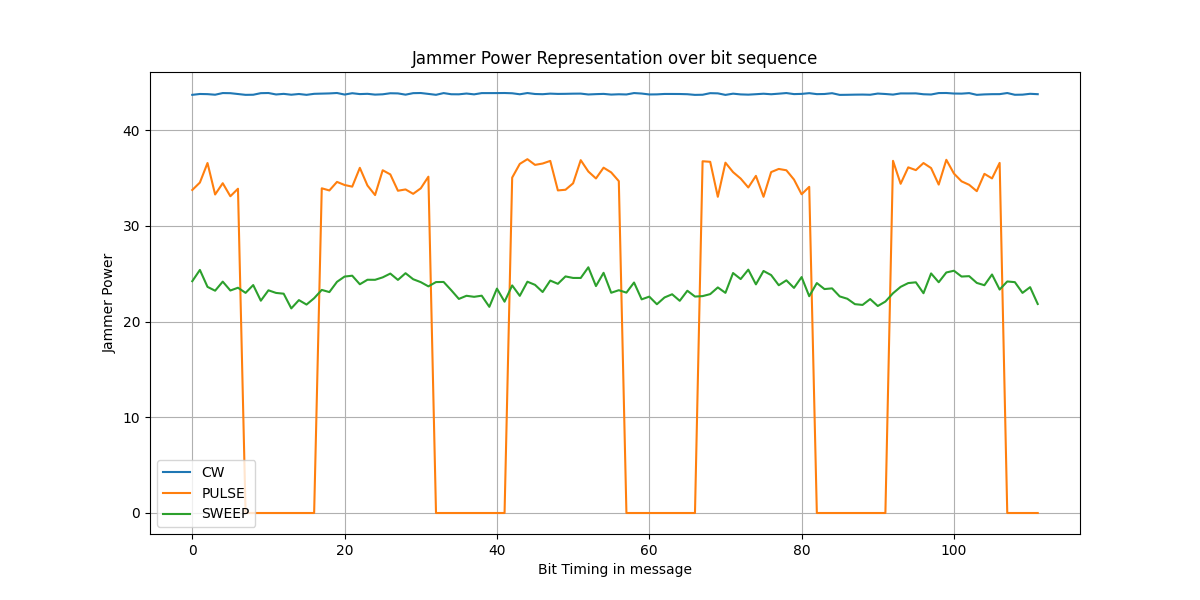
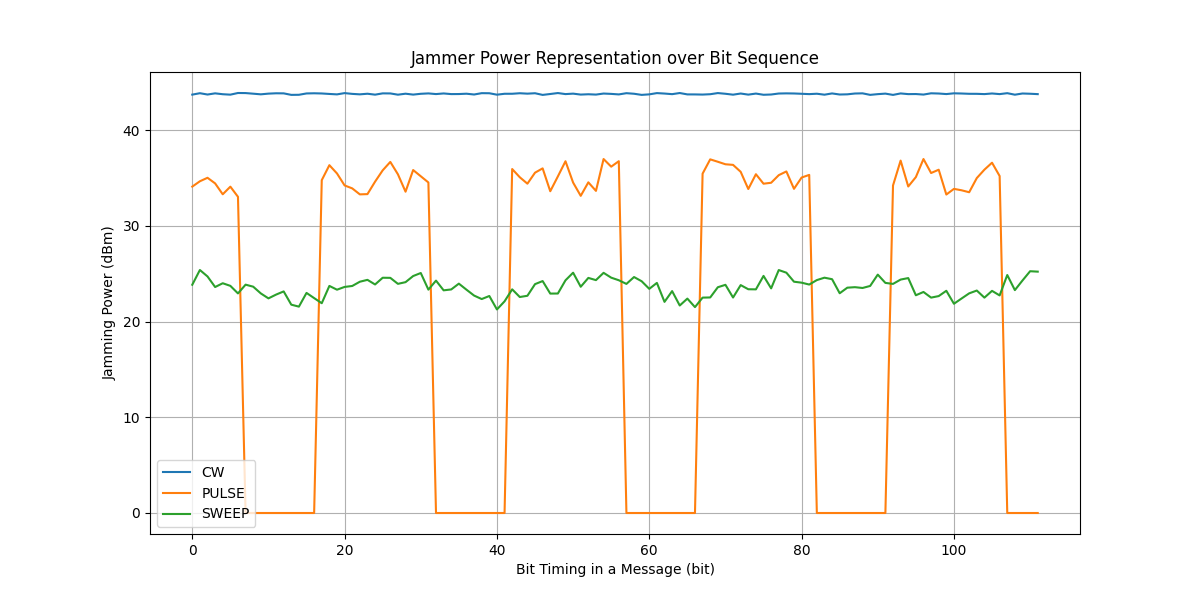
Implemented jammer frequency graph over bit-time

diff --git a/n_scen_stat.py b/n_scen_stat.py
@@ -57,18 +57,37 @@ def plot_bit_sequence_jammer_power(jammer_data):
     plt.figure(figsize=(12, 6))
 
     for jammer in jammer_data.items():
+        print(jammer)
         jammer_name = jammer[0]
         jammer_values = jammer[1]
-        times, bit_power_jammer_values = zip(*jammer_values)
+        times, bit_power_jammer_values = zip(*jammer_values['bit_power'])
         plt.plot(times, bit_power_jammer_values, label=jammer_name)
 
-    plt.xlabel('Bit Timing in message')
-    plt.ylabel('Jammer Power')
-    plt.title('Jammer Power Representation over bit sequence')
+    plt.xlabel('Bit Timing in a Message (bit)')
+    plt.ylabel('Jamming Power (dBm)')
+    plt.title('Jammer Power Representation over Bit Sequence')
     plt.legend()
     plt.grid(True)
     plt.savefig('results/jammer_power.png')
     plt.show()
+
+
+    plt.figure(figsize=(12, 6))
+    for jammer in jammer_data.items():
+        jammer_name = jammer[0]
+        jammer_values = jammer[1]
+        times, bit_power_jammer_values = zip(*jammer_values['bit_frequency'])
+        plt.plot(times, bit_power_jammer_values, label=jammer_name)
+
+    plt.xlabel('Bit Timing in a Message (us)')
+    plt.ylabel('Jamming Frequency (MHz)')
+    plt.title('Jammer Frequency Representation over Bit Time')
+    plt.legend()
+    plt.grid(True)
+    plt.savefig('results/jammer_freq.png')
+    plt.show()
+
+
 
 
 
@@ -196,7 +215,7 @@ def run_simulation(jamming=False, spoofing=False, spoof_probability=0.3):
             distance = ADSBChannel._haversine_distance(drone.current_position[0], drone.current_position[1], gcs_pos[0], gcs_pos[1])
             original_adsb_message = ADSBMessage(drone.id, drone.current_position[2], drone.current_position[0], drone.current_position[1])
 
-            received_df17_even, received_df17_odd, delay_ns, corrupted, snr_db, spoofed, jammed, _ = channel.transmit(
+            received_df17_even, received_df17_odd, delay_ns, corrupted, snr_db, spoofed, jammed, _, _ = channel.transmit(
                 distance, original_adsb_message, jammer=jammer, spoofer=spoofer
             )
 
@@ -278,6 +297,8 @@ def run_simulation_jammer():
                 route=jammer_routes[0]
         )
 
+        jammer_data[jammer.jamming_type] = {}
+
         while True:
 
             status = drone.calculate_navigation(1)
@@ -287,17 +308,17 @@ def run_simulation_jammer():
             distance = ADSBChannel._haversine_distance(drone.current_position[0], drone.current_position[1], gcs_pos[0], gcs_pos[1])
             original_adsb_message = ADSBMessage(drone.id, drone.current_position[2], drone.current_position[0], drone.current_position[1])
 
-            _, _, _, _, _, _, _, bit_power_jammer_data = channel.transmit(
+            _, _, _, _, _, _, _, bit_power_jammer_data, bit_frequency_jammer_data = channel.transmit(
                 distance, original_adsb_message, jammer=jammer, spoofer=None
             )
 
-        jammer_data[jammer.jamming_type] = bit_power_jammer_data
+        jammer_data[jammer.jamming_type]['bit_power'] = bit_power_jammer_data
+        jammer_data[jammer.jamming_type]['bit_frequency'] = bit_frequency_jammer_data
 
     return jammer_data
 
 
 # Run simulations for each scenario and collect results
-
 results = {}
 for scenario, params in scenarios.items():
     print(f"Running scenario: {scenario}")
@@ -309,14 +330,13 @@ for scenario, params in scenarios.items():
         'throughput': throughput_data
     }
 
-
-bit_power_jammer_data = run_simulation_jammer()
+jammer_data = run_simulation_jammer()
 
 # Ensure the 'results' directory exists
 if not os.path.exists('results'):
     os.makedirs('results')
 
-plot_bit_sequence_jammer_power(bit_power_jammer_data)
+plot_bit_sequence_jammer_power(jammer_data)
 
 # Plotting packet loss over time for each scenario
 plot_packet_loss_data(results)

diff --git a/jammer.py b/jammer.py
@@ -59,7 +59,7 @@ class Jammer:
         # Internal timing
         self.start_time = time.time()
 
-    def calculate_jamming_effect(self, bit_time_us, target_lat, target_lon):
+    def calculate_jamming_effect(self, bit_time_us, target_lat, target_lon, for_stat_bit_frequency_jammer):
         # Calculates jamming power at given time and target location
         # Returns jamming power in dBm
 
@@ -92,9 +92,12 @@ class Jammer:
             # We don't need bit_time_us for CW.. since it just steadily sends a signal.
 
             freq_difference = abs(self.center_freq + self.offset_freq - 1090e6)
+            for_stat_bit_frequency_jammer.append((bit_time_us, self.center_freq + self.offset_freq))
+
             if freq_difference < 0.5e6:  # Within 500kHz bandwidth
                 power_reduction = (freq_difference / 0.5e6) * 3
                 return self.jamming_power_dbm - power_reduction - + random.uniform(-0.1, 0.1)
+
 
                 
         if self.jamming_type == "PULSE":
@@ -109,7 +112,11 @@ class Jammer:
             pulse_period = 1e6 / self.pulse_repetition_freq
             time_in_period = bit_time_us % pulse_period
             if time_in_period < self.pulse_width_us:
+                for_stat_bit_frequency_jammer.append((bit_time_us, self.center_freq))
                 return self.jamming_power_dbm + random.uniform(-2, 2)
+            else:
+                pass
+                for_stat_bit_frequency_jammer.append((bit_time_us, float('-inf')))
             
                 
         if self.jamming_type == "SWEEP":
@@ -121,9 +128,12 @@ class Jammer:
             current_freq = self.center_freq - (self.sweep_range_hz / 2) + (sweep_position * self.sweep_range_hz)
 
             freq_difference = abs(current_freq - 1090e6)
+            for_stat_bit_frequency_jammer.append((bit_time_us, current_freq))
+
             if freq_difference < 0.5e6:  # Within 500kHz bandwidth
                 power_reduction = (freq_difference / 0.5e6) * 3
                 return self.jamming_power_dbm - power_reduction + random.uniform(-1, 1)
+
 
         
         if self.jamming_type == "DIRECTIONAL":

diff --git a/adsbchannel.py b/adsbchannel.py
@@ -67,6 +67,7 @@ class ADSBChannel:
         #    : This is for n_scen_stat.py; shows how jammer creates its' noise in time sequence
 
         for_stat_bit_power_jammer = []
+        for_stat_bit_frequency_jammer = []
 
         delay_seconds = distance / self.light_speed
         delay_ns = np.round(delay_seconds * 1e9, decimals=2)
@@ -109,7 +110,8 @@ class ADSBChannel:
                 jamming_power = jammer.calculate_jamming_effect(
                     bit_start_us,
                     original_message.latitude,
-                    original_message.longitude
+                    original_message.longitude,
+                    for_stat_bit_frequency_jammer
                 )
                 
                 if jamming_power > float('-inf'):
@@ -128,7 +130,7 @@ class ADSBChannel:
                         for_stat_jammed = True
 
                     for_stat_bit_power_jammer.append((bit_index, jamming_power))
-                    
+
                 else:
                     for_stat_bit_power_jammer.append((bit_index, 0))
 
@@ -154,7 +156,7 @@ class ADSBChannel:
         if snr_db < 0 or random.random() < self.error_rate:
             corrupted = True  
 
-        return result_df17_even, result_df17_odd, delay_ns, corrupted, snr_db, for_stat_spoofed, for_stat_jammed, for_stat_bit_power_jammer
+        return result_df17_even, result_df17_odd, delay_ns, corrupted, snr_db, for_stat_spoofed, for_stat_jammed, for_stat_bit_power_jammer, for_stat_bit_frequency_jammer
 
 
     # def corrupt_message(self, message):

diff --git a/n_scen_adsb_attack.py b/n_scen_adsb_attack.py
@@ -120,7 +120,7 @@ def update(frame):
 
 
             # Step 2: Simulate transmission from the drone to the GCS.
-            received_df17_even, received_df17_odd, delay_ns, corrupted, snr_db, _, _, _ = channel.transmit(
+            received_df17_even, received_df17_odd, delay_ns, corrupted, snr_db, _, _, _, _ = channel.transmit(
                 distance, original_message, jammer=jammer, spoofer=spoofer
             )
 
